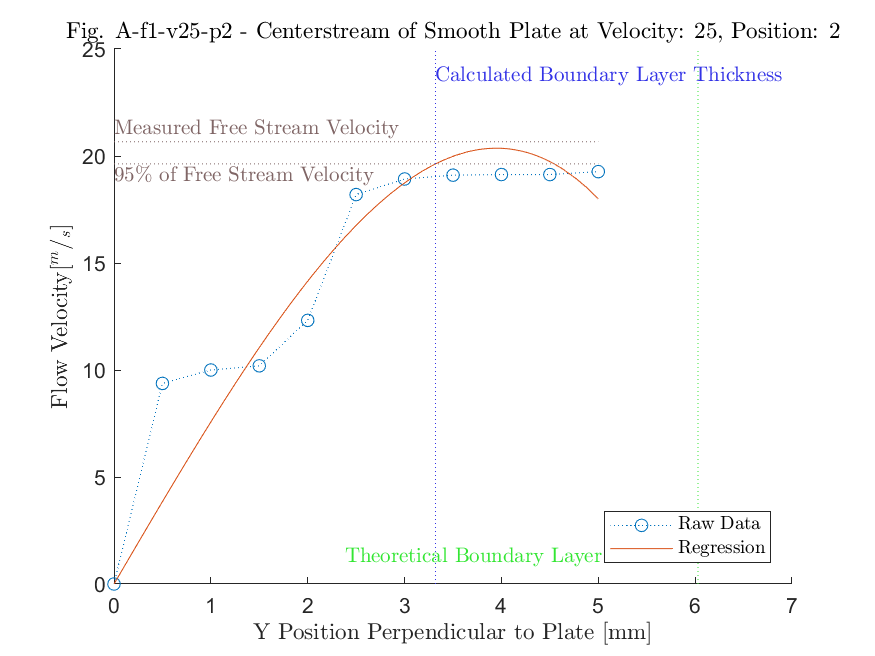
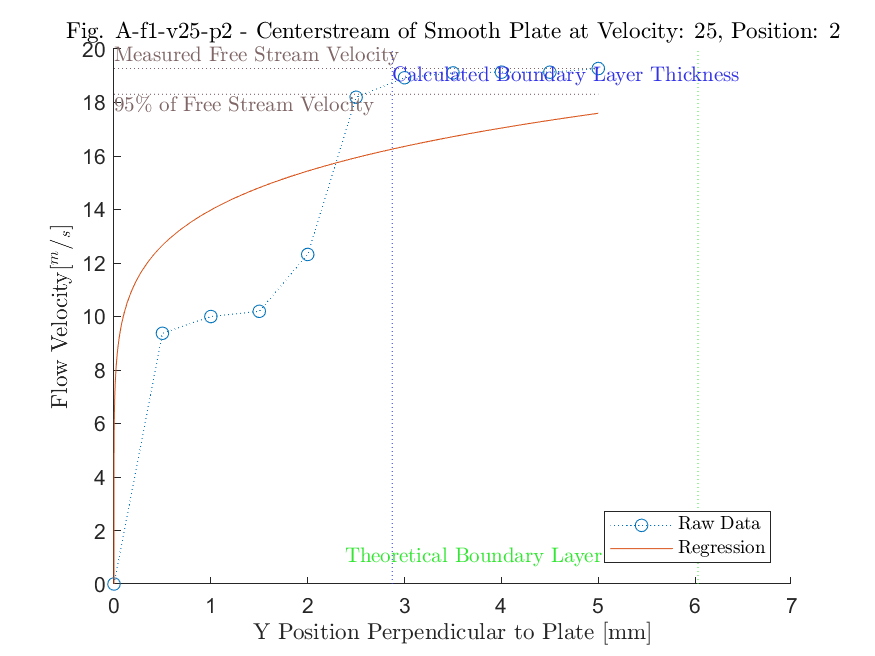
updated table3

diff --git a/C15H/BoundaryLayers.m b/C15H/BoundaryLayers.m
@@ -15,43 +15,67 @@ function BoundaryLayers()
                 x = mean(tab.X(entry & tab.Y ~= 0));
                 Rex = mean(tab.Rex(entry & tab.Y ~= 0));
                 dRex = mean(tab.dRex(entry & tab.Y ~= 0));
-                Vinf = mean(tab.Vinf(entry & tab.Y ~= 0));
+                Vinf = max(Vs);%mean(tab.Vinf(entry & tab.Y ~= 0));
                 ym = mean(ys);
                 
                 syms symd
-                if Rex < 5e5 % Laminar:
-                    if(Rex~=0)
-                        d_Re = 5*x / Rex^(1/5) ;
+                % Laminar:
+                if(Rex~=0)
+                    d_Re_lam = 5*x / Rex^(1/5) ;
+                else
+                    d_Re_lam = 0;
+                end
+
+                A = sum(ys.^6); B = sum(ys.^4); C = sum(Vs.*ys.^3);
+                D = B; E = sum(ys.^2); F = sum(ys.*Vs);
+                denom = (A*E - B*D);
+                a = (C*E - F*B) / denom;
+                b = (A*F - C*D) / denom;
+
+                V = @(y) a*y.^3 + b*y;
+                SE = sqrt(sum((V(ys) - ym).^2) / (n-2));
+
+                d = double(solve(a*symd^3 + b*symd == 0.95.*Vinf, symd));
+                d_lam = d(d>0); d_lam = d_lam(1); % Select First Positive Solution
+                dd_lam = 1.96 * SE;
+                
+                % Turbulent:
+                if(Rex~=0)
+                    if(f == tab.OBSTACLE)
+                        d_Re_turb = x * (0.381/Rex^(1/5)) * (Rex~=0);
                     else
-                        d_Re = 0;
+                        d_Re_turb = x * (0.381/Rex^(1/5) - 10.256/Rex) * (Rex~=0);
                     end
+                else 
+                    d_Re_turb = 0;
+                end
+                c = sum(Vs.*ys.^(1/7)) ./ sum(ys.^(2/7));
+
+                V = @(y) c*y.^(1/7);
+                SE = sqrt(sum((V(ys) - ym).^2) / (n-2));
+
+                d = double(solve(c*symd^(1/7) == 0.95.* Vinf));
+                d_turb = d(d>0); d_turb = d_turb(1); % Select First Positive Solution
+                dd_turb = 1.96 * SE;
                     
-                    A = sum(ys.^6); B = sum(ys.^4); C = sum(Vs.*ys.^3);
-                    D = B; E = sum(ys.^2); F = sum(ys.*Vs);
-                    denom = (A*E - B*D);
-                    a = (C*E - F*B) / denom;
-                    b = (A*F - C*D) / denom;
-                    
-                    V = @(y) a*y.^3 + b*y;
-                    SE = sqrt(sum((V(ys) - ym).^2) / (n-2));
-                    
-                    d = double(solve(a*symd^3 + b*symd == 0.95.*Vinf, symd));
-                    d = d(d>0); d = d(1); % Select First Positive Solution
-                    dd = 1.96 * SE;
-                else % Turbulent:
-                    if(Rex~=0)
-                        d_Re = x * (0.381/Rex^(1/5) - 10.256/Rex) * (Rex~=0);
+                if f == tab.OBSTACLE || f == tab.ROUGH % Choose best fitting curve
+                    if dd_turb < dd_lam
+                        d_Re = d_Re_turb;
+                        d = d_turb;
+                        dd = dd_turb;
                     else
-                        d_Re = 0;
+                        d_Re = d_Re_lam;
+                        d = d_lam;
+                        dd = dd_lam;
                     end
-                    c = sum(Vs.*ys.^(1/7)) ./ sum(ys.^(2/7));
-                    
-                    V = @(y) c*y.^(1/7);
-                    SE = sqrt(sum((V(ys) - ym).^2) / (n-2));
-                    
-                    d = double(solve(c*symd^(1/7) == 0.95.* Vinf));
-                    d = d(d>0); d = d(1); % Select First Positive Solution
-                    dd = 1.96 * SE;
+                elseif Rex > 5e5
+                    d_Re = d_Re_turb;
+                    d = d_turb;
+                    dd = dd_turb;
+                else
+                    d_Re = d_Re_lam;
+                    d = d_lam;
+                    dd = dd_lam;
                 end
                 
                 % Add Entry to Table:
